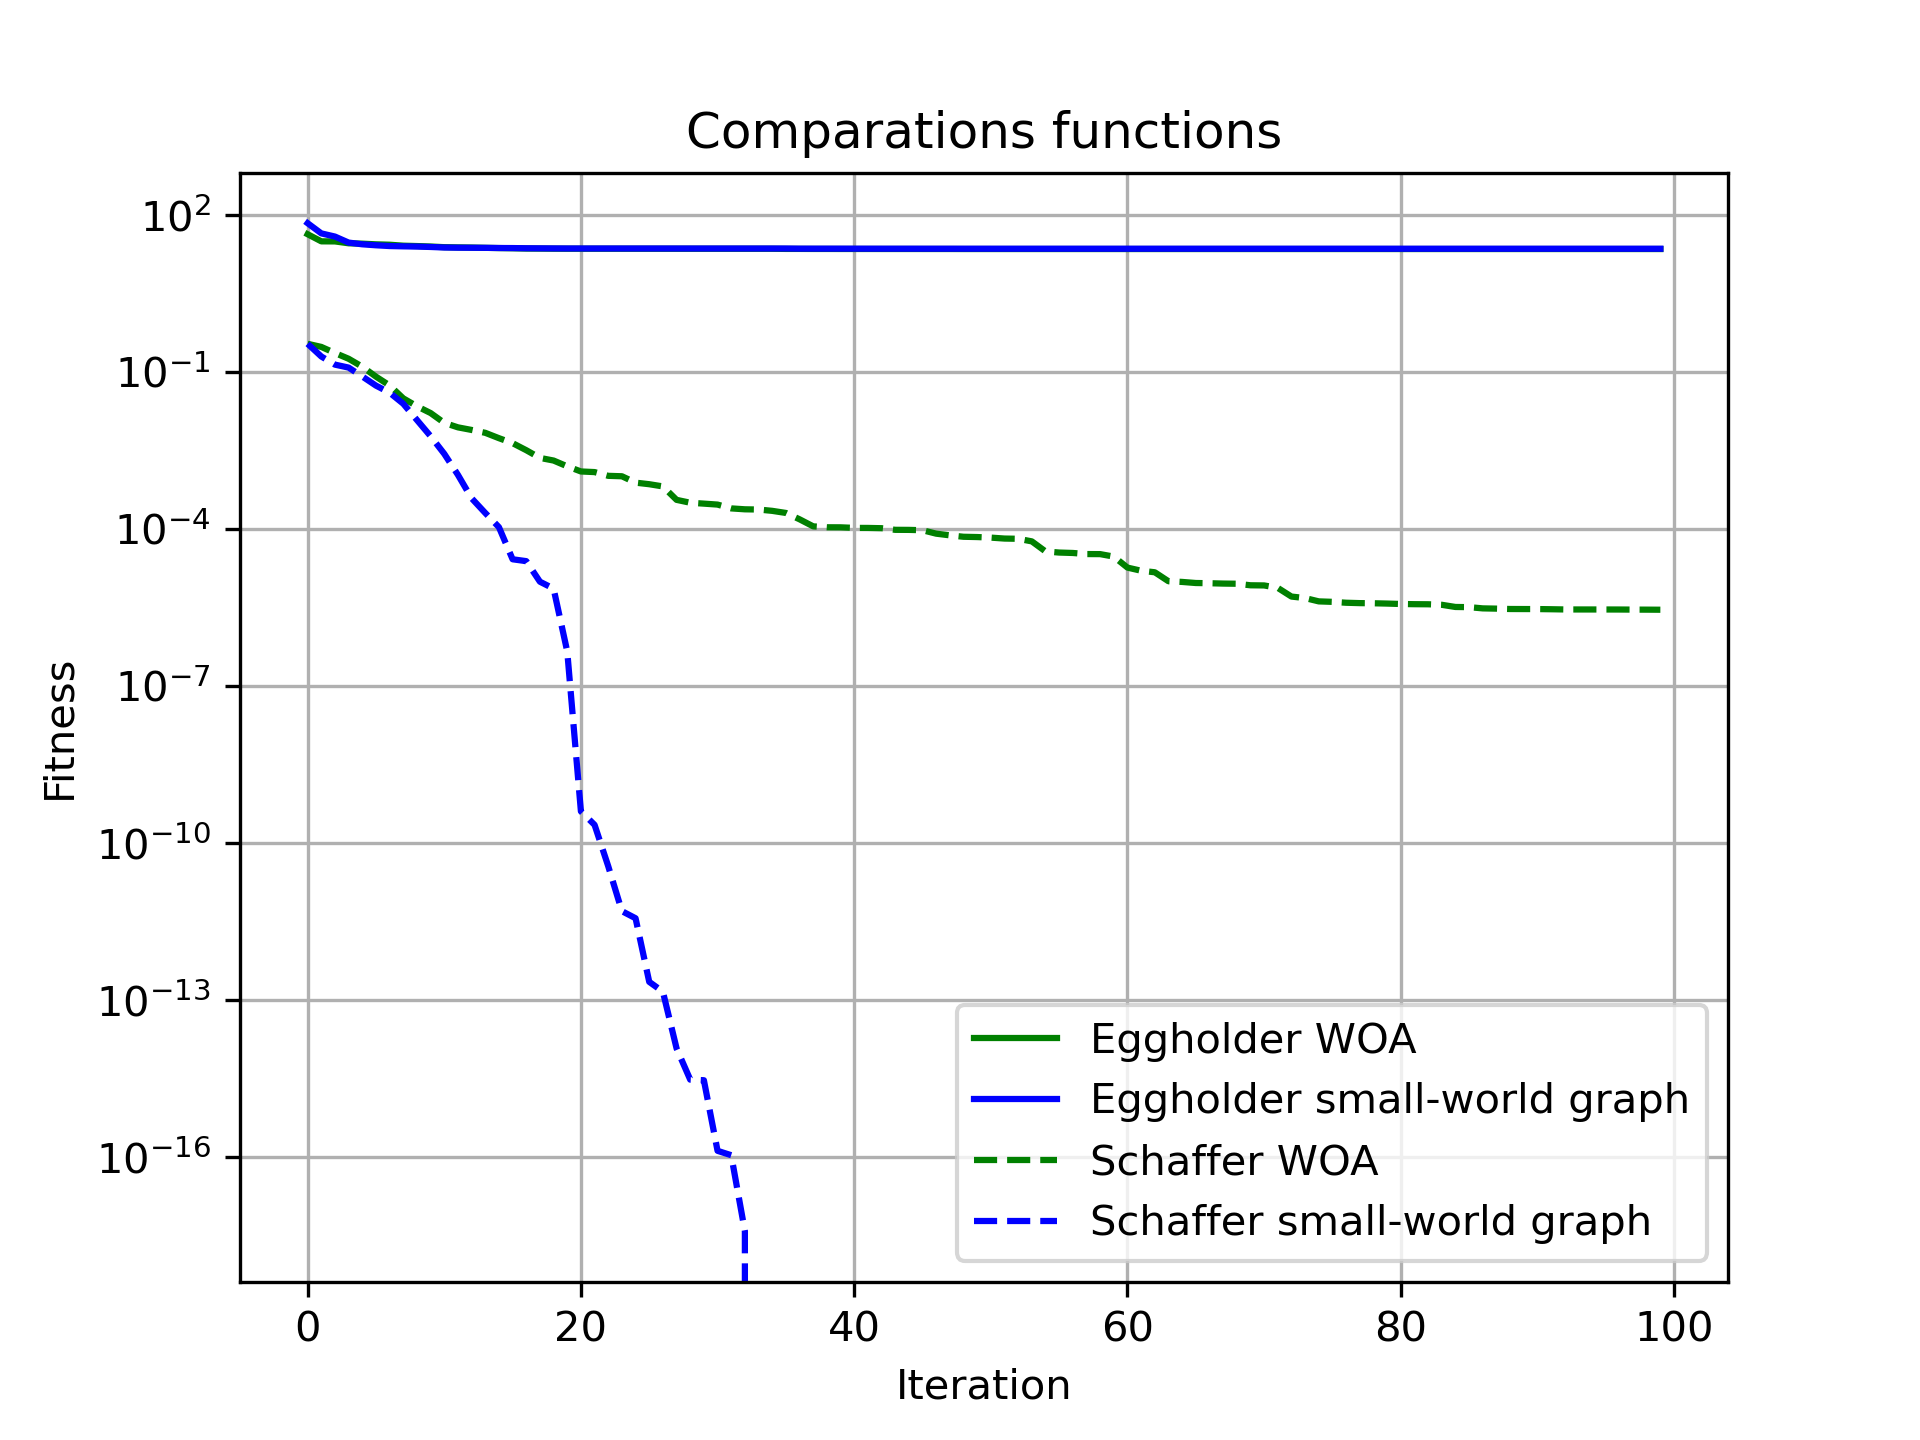
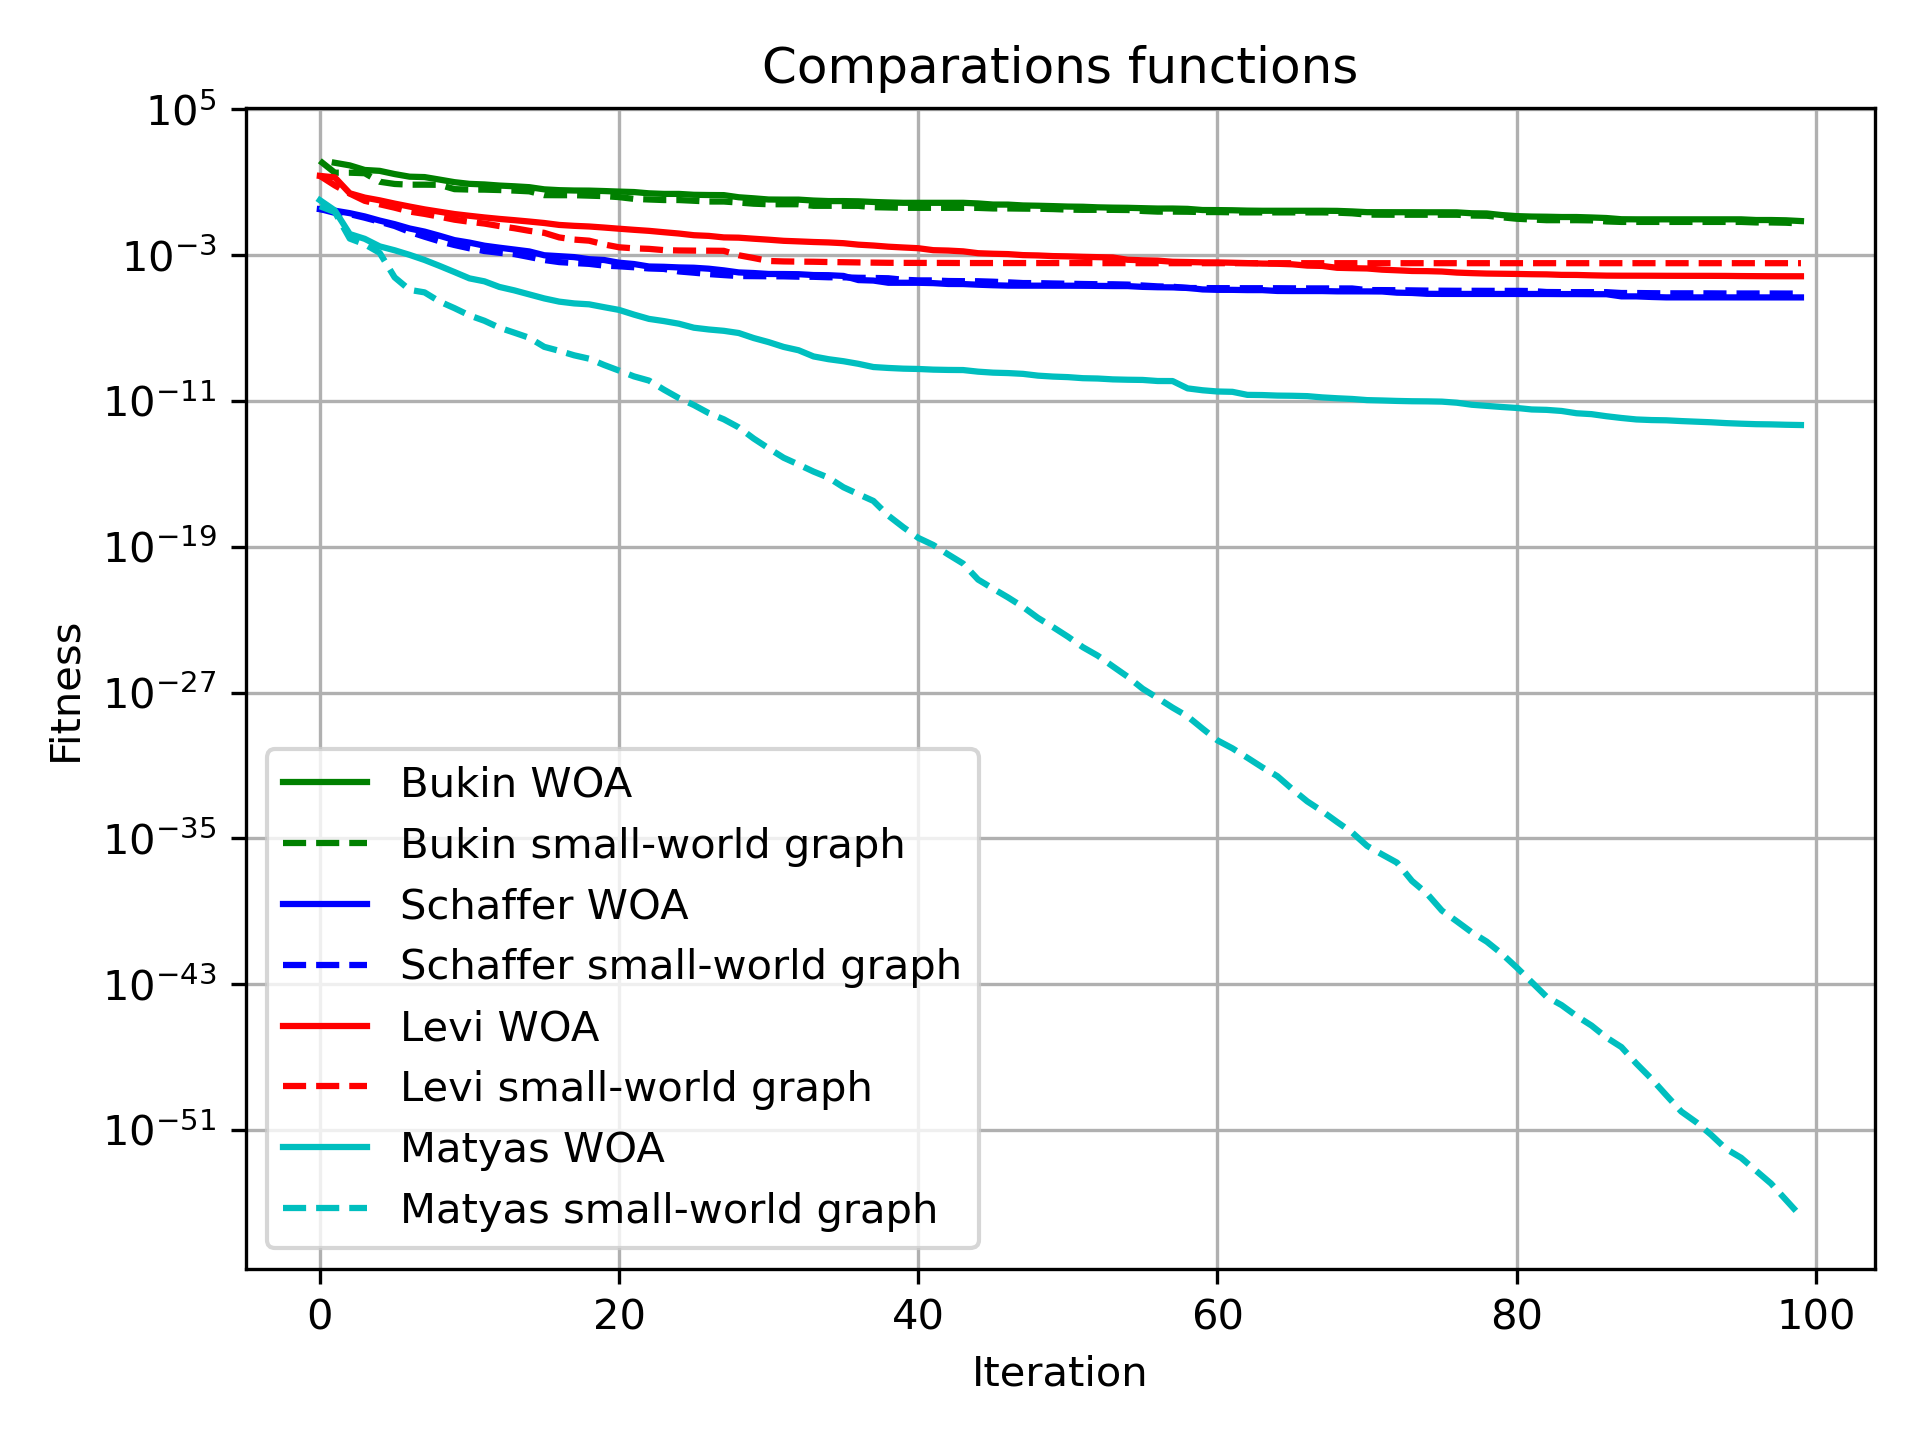
Experiments 16 april

diff --git a/testWoa.py b/testWoa.py
@@ -1,49 +1,66 @@
 import woa as woa
+import woaWS as woaG
 import numpy as np
 import matplotlib.pyplot as plt
 import functions as f
+import networkx as nx
+
+def experiments_wao(f,filename,max_iter,number_experiments,num_whales,dim):
+    matrix = np.zeros((max_iter,number_experiments))
+
+    for i in range(number_experiments):
+        fitness = f
+      
+        best_array, best_position = woa.woa(fitness, max_iter, num_whales, dim, -100, 100)
+        matrix[i,:] = best_array
+        
+    average = np.average(matrix, axis=0)
+    np.save(filename, average)
+    plt.figure(dpi=300)
+    plt.grid()
+    plt.xlabel("Average in iterations")
+    plt.ylabel("Fitness")
+
+    plt.plot(average)
+    plt.yscale("log")
+    #plt.show()
+    plt.savefig(filename+".png")
+
+def experiments_network(f,filename,max_iter,number_experiments,num_whales,dim,rewiring):
+    matrix = np.zeros((max_iter,number_experiments))
+    for i in range(number_experiments):
+        fitness = f
+        G = nx.generators.random_graphs.watts_strogatz_graph(num_whales, 3, rewiring)
+        
+        best_array, best_position = woaG.woa(fitness, max_iter, num_whales, dim, -100, 100, G)
+        matrix[i,:] = best_array
+        
+    average = np.average(matrix, axis=0)
+    np.save(filename, average)
+    plt.figure(dpi=300)
+    plt.grid()
+    plt.xlabel("Average in iterations")
+    plt.ylabel("Fitness")
+
+    plt.plot(average)
+    plt.yscale("log")
+    #plt.show()
+    plt.savefig(filename+".png")
 
 max_iter = 100
 number_experiments = 100
-matrix = np.zeros((max_iter,number_experiments))
+num_whales = 100
+dim = 2
+rewiring = 0.3
+experiments_wao(f.function_bukin,"bukinWAO",max_iter,number_experiments,num_whales, dim)
+experiments_network(f.function_bukin,"bukinNetwork",max_iter,number_experiments,num_whales, dim,rewiring)
 
-for i in range(number_experiments):
-    fitness = f.function_schaffer
-    dim=2
-    num_whales = 50
-    
-    best_array, best_position = woa.woa(fitness, max_iter, num_whales, dim, -100, 100)
-    matrix[i,:] = best_array
-    
-average = np.average(matrix, axis=0)
-np.save("woa", average)
-plt.figure(dpi=300)
-plt.grid()
-plt.xlabel("Average in iterations")
-plt.ylabel("Fitness")
+experiments_wao(f.function_levi,"leviWAO",max_iter,number_experiments,num_whales, dim)
+experiments_network(f.function_levi,"leviNetwork",max_iter,number_experiments,num_whales, dim,rewiring)
 
-plt.plot(average)
-plt.yscale("log")
-#plt.show()
-plt.savefig("woa.png")
+experiments_wao(f.function_matyas,"matyasWAO",max_iter,number_experiments,num_whales,dim)
+experiments_network(f.function_matyas,"matyasNetwork",max_iter,number_experiments,num_whales, dim,rewiring)
 
-for i in range(number_experiments):
-    fitness = f.function_eggholder
-    dim=2
-    num_whales = 50
-    
-    best_array, best_position = woa.woa(fitness, max_iter, num_whales, dim, -512, 512)
-    matrix[i,:] = best_array
-    
-average = np.average(matrix, axis=0)
-average = np.abs(-959.6407-average)
-np.save("woa2", average)
-plt.figure(dpi=300)
-plt.grid()
-plt.xlabel("Average in iterations")
-plt.ylabel("Fitness")
 
-plt.plot(average)
-plt.yscale("log")
-#plt.show()
-plt.savefig("woa2.png")
+experiments_wao(f.function_schaffer,"schafferWAO",max_iter,number_experiments,num_whales, dim)
+experiments_network(f.function_schaffer,"schafferNetwork",max_iter,number_experiments,num_whales, dim,rewiring)

diff --git a/papergraphics.py b/papergraphics.py
@@ -5,11 +5,16 @@ Date: 15-April-2022
 import numpy as np
 import matplotlib.pyplot as plt
 
-woa_function_schaffer = np.load("woa.npy")
-woa_function_eggholder = np.load("woa2.npy")
-woa_watts_strogatz_graph_function_schaffer = np.load("woawsr.npy")
-woa_watts_strogatz_graph_function_eggholder = np.load("woawsr2.npy")
+wao_function_schaffer = np.load("schafferWAO.npy")
+wao_function_bukin = np.load("bukinWAO.npy")
+wao_function_levi = np.load("leviWAO.npy")
+wao_function_matyas = np.load("matyasWAO.npy")
 
+wao_watts_strogatz_graph_function_schaffer = np.load("schafferNetwork.npy")
+wao_watts_strogatz_graph_function_bukin = np.load("bukinNetwork.npy")
+wao_watts_strogatz_graph_function_levi = np.load("leviNetwork.npy")
+wao_watts_strogatz_graph_function_matyas = np.load("matyasNetwork.npy")
+"""
 plt.figure(dpi=300)
 plt.title("Function Shaffer")
 
@@ -34,17 +39,22 @@ plt.plot(woa_watts_strogatz_graph_function_eggholder,label="small-world graph")
 plt.yscale("log")
 plt.legend()
 plt.savefig("function_eggholder.png")
-
+"""
 
 plt.figure(dpi=300)
 plt.title("Comparations functions")
 plt.grid()
 plt.xlabel("Iteration")
 plt.ylabel("Fitness")
-plt.plot(woa_function_eggholder,'g-',label="Eggholder WOA")
-plt.plot(woa_watts_strogatz_graph_function_eggholder,'b-',label="Eggholder small-world graph")
-plt.plot(woa_function_schaffer,'g--',label="Schaffer WOA",)
-plt.plot(woa_watts_strogatz_graph_function_schaffer,'b--',label="Schaffer small-world graph")
+plt.plot(wao_function_bukin,'g-',label="Bukin WOA")
+plt.plot(wao_watts_strogatz_graph_function_bukin,'g--',label="Bukin small-world graph")
+plt.plot(wao_function_schaffer,'b-',label="Schaffer WOA",)
+plt.plot(wao_watts_strogatz_graph_function_schaffer,'b--',label="Schaffer small-world graph")
+plt.plot(wao_function_levi,'r-',label="Levi WOA")
+plt.plot(wao_watts_strogatz_graph_function_levi,'r--',label="Levi small-world graph")
+plt.plot(wao_function_matyas,'c-',label="Matyas WOA",)
+plt.plot(wao_watts_strogatz_graph_function_matyas,'c--',label="Matyas small-world graph")
 plt.yscale("log")
 plt.legend()
+plt.tight_layout()
 plt.savefig("all_functions.png")

diff --git a/functions.py b/functions.py
@@ -2,21 +2,47 @@ import numpy as np
 import math
 import random
 
-def function_eggholder(position):
-	# X is a np.array
-	return (-(position[1] + 47) * np.sin(np.sqrt(abs(position[0]/2 + (position[1] + 47)))) -position[0] * np.sin(np.sqrt(abs(position[0] - (position[1] + 47)))))
-
+def function_bukin(position):
+    # X is a np.array
+    x = position[0]
+    y = position[1]
+    if x >= -15 and x <= -5 and y >= -3 and y <= 3:
+        return 100*math.sqrt(abs(y-0.01*x**2))+0.01*abs(x+10)
+    else:
+        return float("inf")
 # schaffer function 4
 def function_schaffer(position):
+    x = position[0]
+    y = position[1]
     top = math.pow(math.sin(math.pow(position[0],2) - math.pow(position[1],2)),2)- 0.5
     button = math.pow(1+(0.0001*(math.pow(math.pow(position[0],2) + math.pow(position[1],2),2))),2)
-    return 0.5 + (top/button)
+    if x>=-100 and y <= 100:
+        return 0.5 + (top/button)
+    else:
+        return float("inf")
 
-# schaffer function 4
+# function_matyas function
 def function_matyas(position):
+    x = position[0]
+    y = position[1]
     first = math.pow(position[0],2) + math.pow(position[1],2)
     second = 0.26*first- (0.48*position[0]*position[1])
-    return second
+    if x>= -10 and y <= 10:
+        return second
+    else:
+        return float("inf")
+
+#Lévi function N.13
+def function_levi(position):
+    x = position[0]
+    y = position[1]
+    a = math.pow(math.sin(3*math.pi*x),2)
+    b = math.pow(x-1,2)*(1+math.pow(math.sin(3*math.pi*y),2))
+    c = math.pow(y-1,2)*(1+math.pow(math.sin(2*math.pi*y),2))
+    if x>=-10 and y <= 10:
+        return a+b+c
+    else:
+        return float("inf")
 
 def qap_cost(chromosome, distances, flows):
     """Gets the fitness score for a particular chromosome using the formula minϕ∈Sn ∑ni=1 ∑nj=1 fij⋅dϕ(i)ϕ(j)
